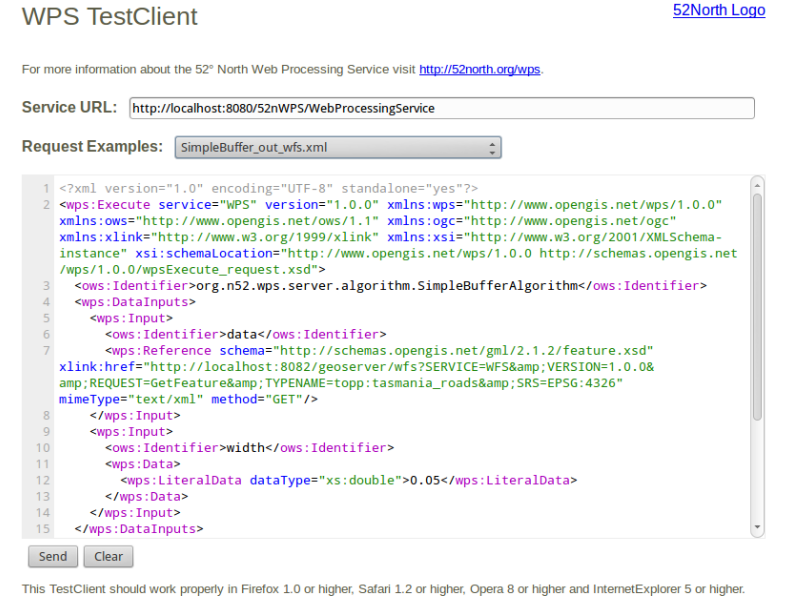
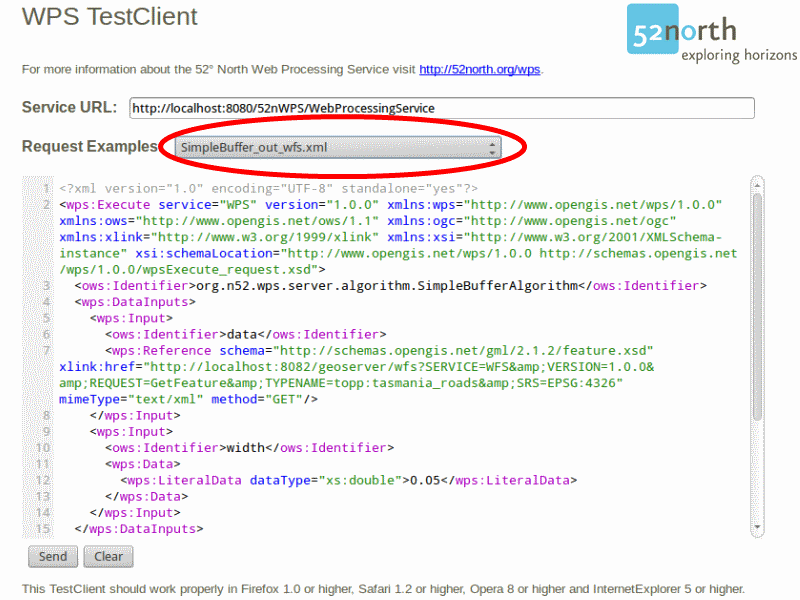
Updated 52nWPS quickstart according to https://trac.osgeo.org/osgeo/ticket/1315.

diff --git a/livedvd/gisvm/trunk/doc/en/quickstart/52nWPS_quickstart.rst b/livedvd/gisvm/trunk/doc/en/quickstart/52nWPS_quickstart.rst
@@ -1,5 +1,5 @@
 :Author: Benjamin Pross, Kristof Lange
-:Version: osgeo-live7.0
+:Version: osgeo-live8.0
 :License: Creative Commons Attribution-ShareAlike 3.0 Unported  (CC BY-SA 3.0)
 
 .. image:: ../../images/project_logos/logo_52North_160.png
@@ -11,10 +11,17 @@
 52°North WPS Quickstart 
 ********************************************************************************
 
+The 52°North WPS is a framework for web-based processing of (geospatial) data. 
+The service implements the OGC Web Processing Service 1.0 interface standard.
+
+This quickstart describes how to process data and store the result in another web service using WPS operations. 
+
+.. contents:: Contents
+
 Running
 ================================================================================
 
-* To run 52°North WPS on the Live DVD, go to :menuselection:`Geospatial --> Web Services --> 52North --> Start 52North WPS`	to start the 52°North WPS or use this `direct link <http://localhost:8080/52nWPS/>`_. (If the service is not reachable, try to start the Tomcat servlet engine following the steps at the bottom of the :doc:`SOS quickstart page <../quickstart/52nSOS_quickstart>`.)
+* To run the 52°North WPS on the Live DVD, go to |osgeolive-appmenupath-52nWPS| to start the 52°North WPS or use this `direct link <http://localhost:8080/52nWPS/>`_. (If the service is not reachable, try to start the Tomcat servlet engine following the steps at the bottom of the :doc:`SOS quickstart page <../quickstart/52nSOS_quickstart>`.)
 
 * The 52n WPS welcome page will appear. 
 
@@ -22,14 +29,28 @@ Running
     :scale: 70 %
     :alt: screenshot
 
+Get information about the service
+================================================================================
+
 * Check out the capabilities of the 52°North WPS with this request:
 
   http://localhost:8080/52nWPS/WebProcessingService?Request=GetCapabilities&Service=WPS
 
+Process data
+================================================================================
+
 * Click on the link to open the 52nWPS-TestClient. 
-* Make sure that you have started :doc:`GeoServer <../overview/geoserver_overview>` since the demonstrations require data from the local GeoServer installation.
 
+  .. image:: ../../images/screenshots/800x600/52nWPS_welcome_page_2.png
+    :scale: 70 %
+    :alt: screenshot
 
+* Make sure that :doc:`GeoServer <../overview/geoserver_overview>` is running since the demonstration requires data from the local GeoServer installation.
+  To do this, try to open the page http://localhost:8082/geoserver/web. If the page could not be found, select |osgeolive-appmenupath-geoserver| in the menu.
+  The GeoServer should be running after a few moments.
+
+* Select the example request "SimpleBuffer_out_wfs.xml" from the dropdown list:
+  
   .. image:: ../../images/screenshots/800x600/52nWPS_test_client.png
     :scale: 70 %
     :alt: screenshot
@@ -51,11 +72,24 @@ Running
     :scale: 70 %
     :alt: screenshot
 
-* Try out other example requests from the dropdown list of the WPS test client.
+Things to Try
+================================================================================
 
-* You could also install the WPS plugin for QGIS and try it out with the 52°North WPS.
+* Try out other example requests from the dropdown list of the WPS test client.
+* You could also install the WPS plugin for :doc:`QGIS <../overview/qgis_overview>` and try it out with the 52°North WPS.
+
+What Next?
+================================================================================
+
+* Create your own processes and execute them using various clients.
+
+* Set up the WPS to execute GRASS GIS 7 processes.
+
+* Set up the WPS to execute :doc:`R <../overview/R_overview>` scripts as processes.
+
+Available in the 52°North wiki: https://wiki.52north.org/bin/view/Geoprocessing/GeoprocessingTutorials
 	
-* For further questions you can contact the 52°North WPS mailing list:
+For further questions you can contact the 52°North WPS mailing list:
 
   geoprocessingservices@52north.org
 
